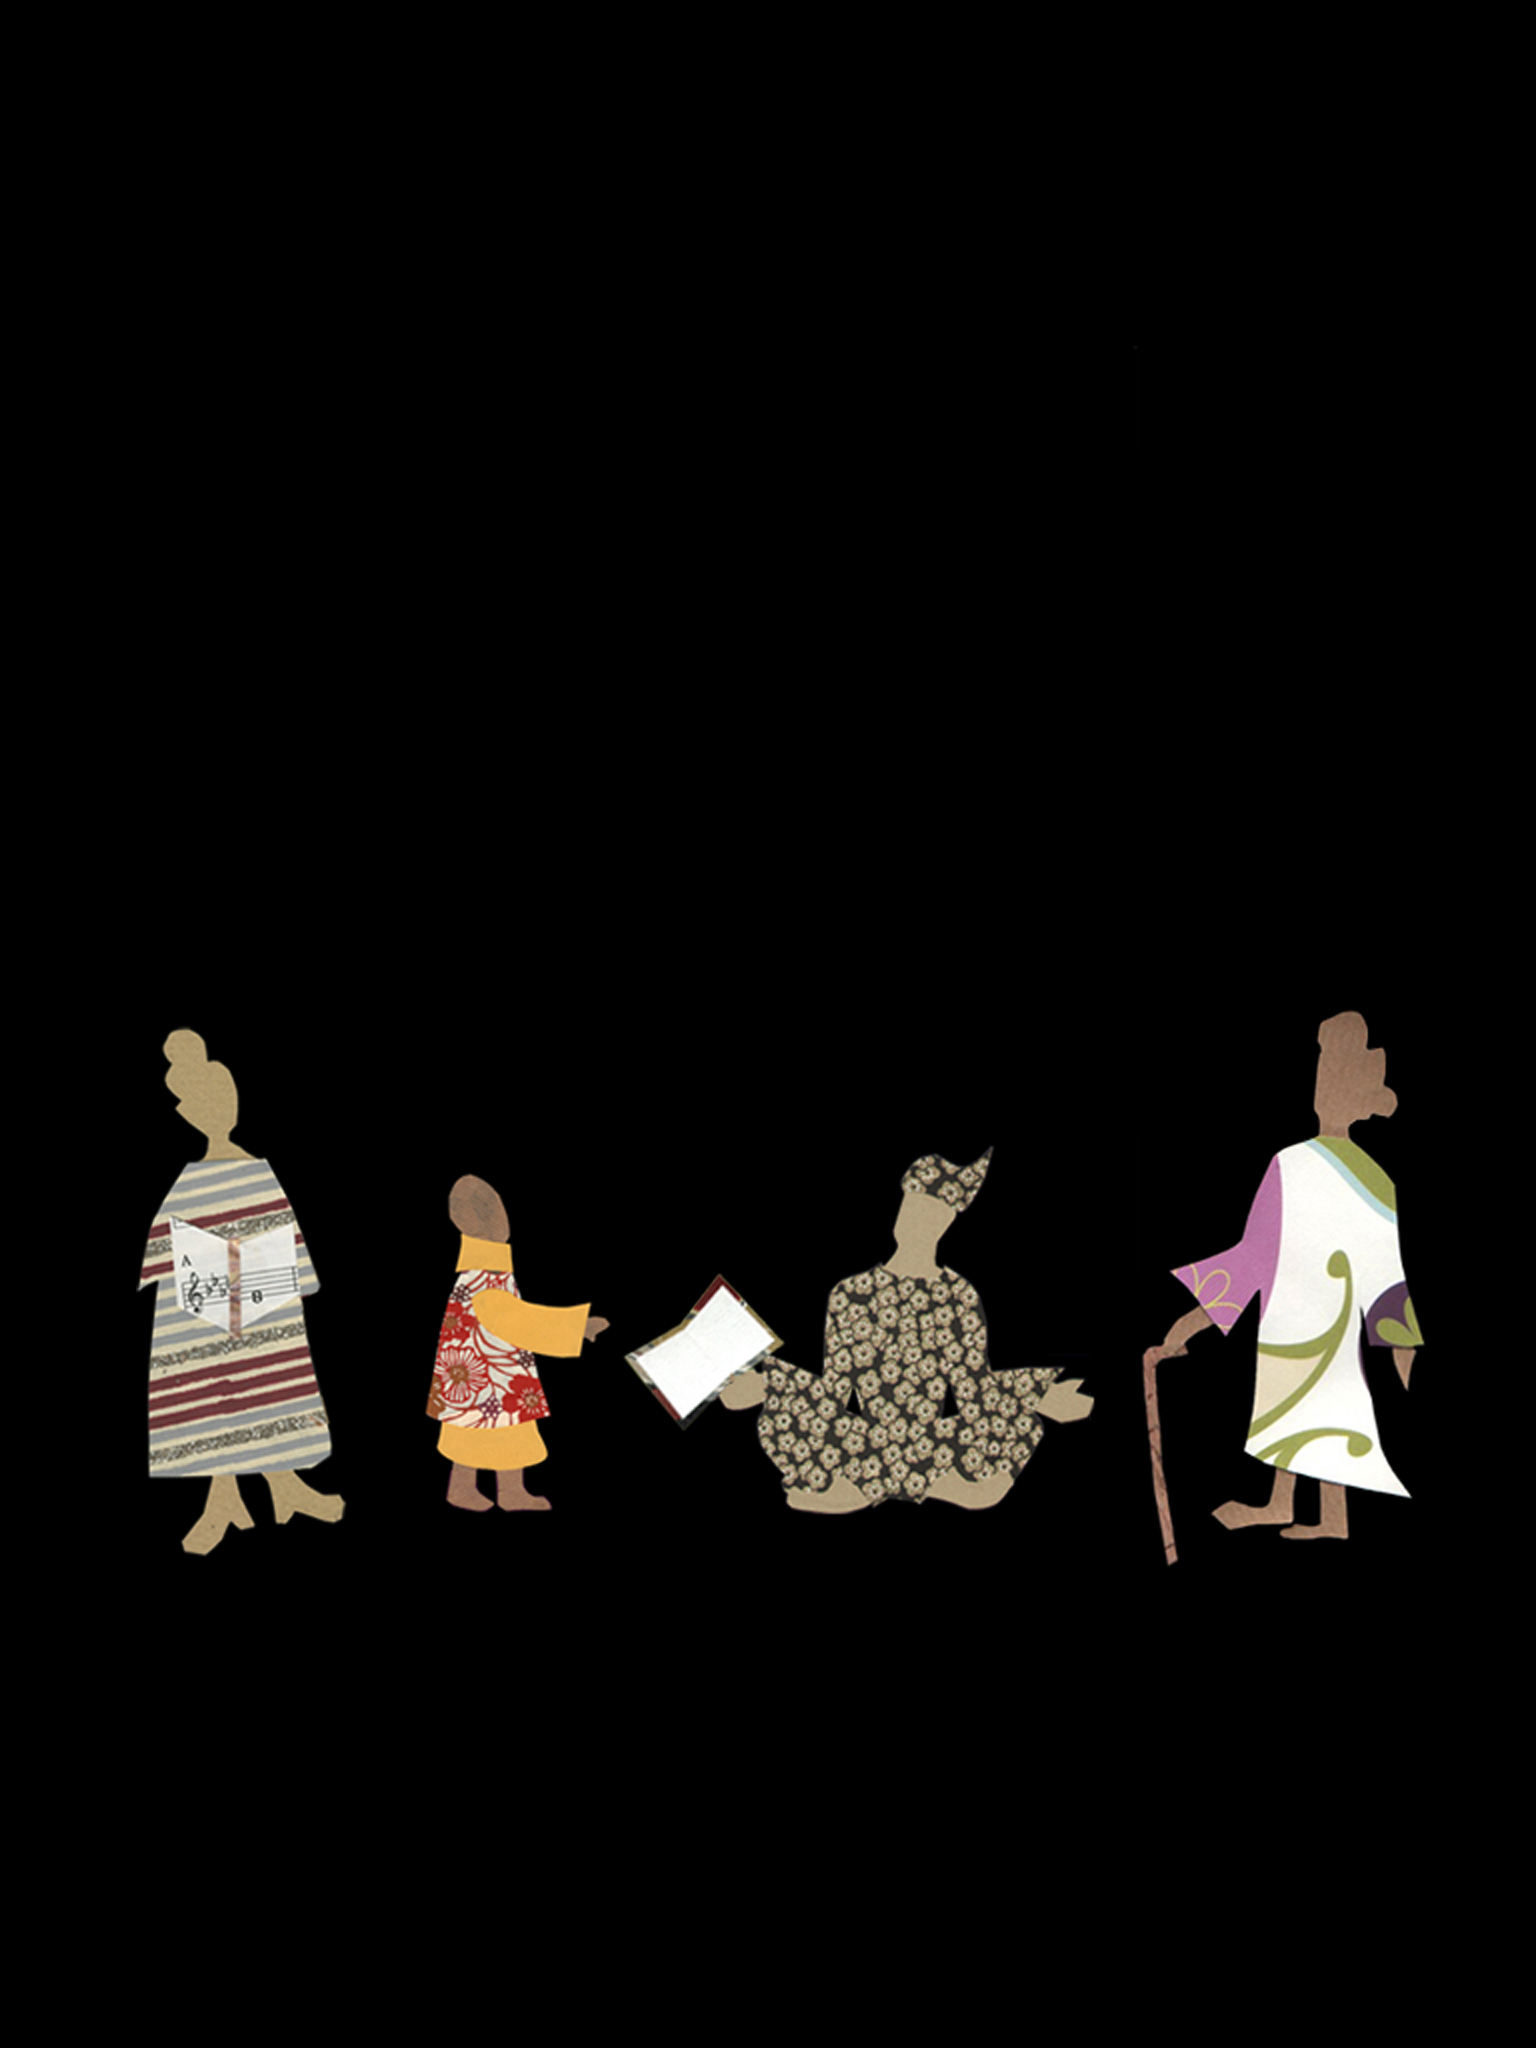
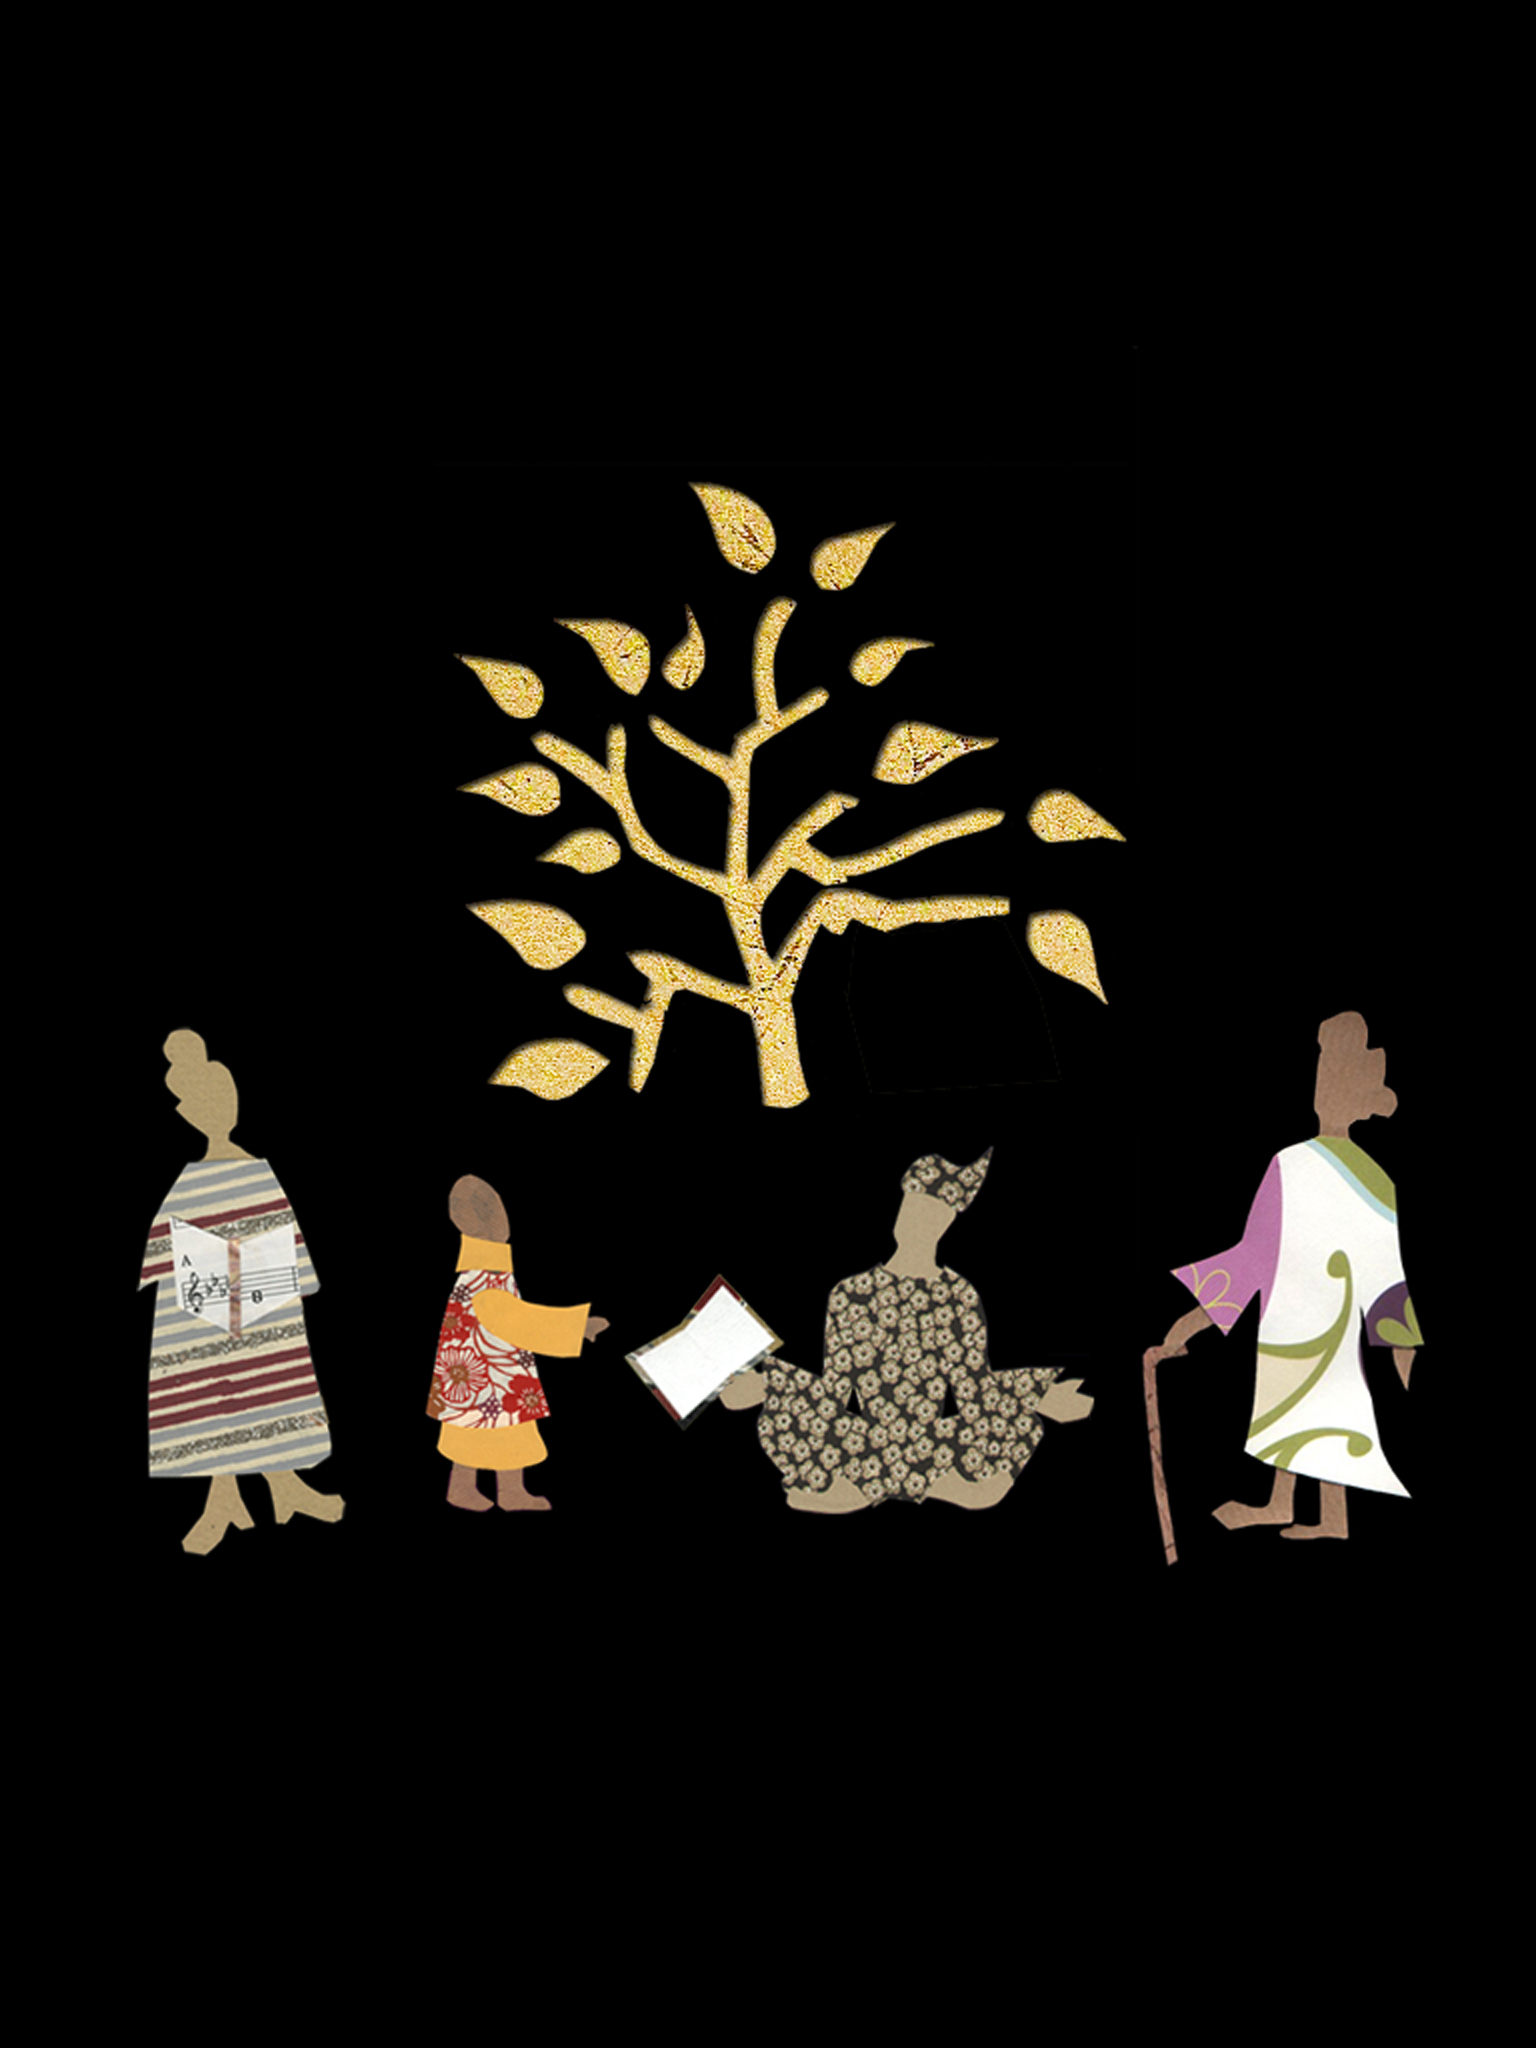
Jump directly when user select option Stories on Menu View

Changed region(s): [[0.2812, 0.2188, 0.7188, 0.5625]]

diff --git a/Bible/ResourceData/Page3HtmlFile/style3.css b/Bible/ResourceData/Page3HtmlFile/style3.css
@@ -282,43 +282,47 @@ font-weight: bold;
 }
 							/*FOR IMAGE GLOW EFFECT*/
 .treeImage{
-	background-image: url(Frem1.png);
+	background-image: url(frame_sprite.png);
 	background-repeat: no-repeat;
+	background-position: 1px 0;
 	height:314px;
 	width:337px;
 	position: relative;
 	left: 29.4%;
-	top: 23px;
+	top: 24px;
 	display: inline-block;
 }
 .treeImage1{
-	background-image: url(Frem2.png);
+	background-image: url(frame_sprite.png);
 	background-repeat: no-repeat;
+	background-position: -356px 0;
 	height:314px;
 	width:337px;
 	position: relative;
 	left: 29.4%;
-	top: 23px;
+	top: 24px;
 	display: inline-block;
 }
 .treeImage2{
-	background-image: url(Frem3.png);
+	background-image: url(frame_sprite.png);
 	background-repeat: no-repeat;
+	background-position: -714px 0;
 	height:314px;
 	width:337px;
 	position: relative;
 	left: 29.4%;
-	top: 23px;
+	top: 24px;
 	display: inline-block;
 }
 .treeImage3{
-	background-image: url(Frem4.png);
+	background-image: url(frame_sprite.png);
 	background-repeat: no-repeat;
+	background-position: -1071px 0;
 	height:314px;
 	width:337px;
 	position: relative;
 	left: 29.4%;
-	top: 23px;
+	top: 24px;
 	display: inline-block;
 }
 										/*END GLOW EFFECT*/

diff --git a/Bible/ResourceData/Page3HtmlFile/Page_003.htm b/Bible/ResourceData/Page3HtmlFile/Page_003.htm
@@ -32,7 +32,7 @@ $(function(){
 </body>
 <script type="text/javascript">
 			var classes = ['treeImage','treeImage1','treeImage2','treeImage3']
-			var timeDiff = 1*1000;
+			var timeDiff = 0.625*1000;
 			var currentMove = 0;
 			var lastMove = classes.length-1;
 			var counter = 0;

diff --git a/Bible/ShareViewController.m b/Bible/ShareViewController.m
@@ -126,10 +126,10 @@ nil
     [FBShareManager sharedManager].m_getPostOption = FB_PostProfileWall;
     [FBShareManager sharedManager].m_titleName  = @"";
     [FBShareManager sharedManager].m_caption = @"";
-    [FBShareManager sharedManager].m_description = SocialNetworkMessage;
+    [FBShareManager sharedManager].m_description = FaceBookMsg;
     [FBShareManager sharedManager].m_iconUrl = @"";
     [FBShareManager sharedManager].m_linkUrl = @"";
-    [FBShareManager sharedManager].m_msg =     SocialNetworkMessage;
+    [FBShareManager sharedManager].m_msg =     FaceBookMsg;
     
     [[FBShareManager sharedManager]  publishStream];
 }
@@ -193,16 +193,12 @@ nil
 - (void)facebookLikeViewDidUnlike:(FacebookLikeView *)aFacebookLikeView
 {
     
-    
     UIAlertView *alert = [[[UIAlertView alloc] initWithTitle:@"Unliked"
                                                      message:KFaceBookUnLikeMsgKey
                                                     delegate:self
                                            cancelButtonTitle:@"OK"
                                            otherButtonTitles:nil] autorelease];
     [alert show];
-    
-    
-    
     
 }
 
@@ -225,7 +221,7 @@ nil
 }
 -(void)postTweetButton:(id)sender{
     m_twtManger.requestType = TweetOnTwitter;
-    [m_twtManger tweetWithMsg:SocialNetworkMessage];
+    [m_twtManger tweetWithMsg:TwitterShareMsg];
 }
 
 
@@ -316,9 +312,10 @@ nil
         
         MFMailComposeViewController* controller = [[MFMailComposeViewController alloc] init];
         controller.mailComposeDelegate = self;
-        [controller setSubject:@"Test mail"];
-        [controller setMessageBody:@"Hi Ashi, \n\n Are u there ?" isHTML:NO];
-        if (controller) [self presentModalViewController:controller animated:YES];
+        [controller setSubject:@"History of a Bible, illustrated by Benjamin Morse"];
+        [controller setMessageBody:EmailShareMsg isHTML:NO];
+        if (controller)
+        [self presentModalViewController:controller animated:YES];
         [controller release];
         
     } else {
@@ -333,9 +330,9 @@ nil
     if([SLComposeViewController isAvailableForServiceType:SLServiceTypeFacebook])
     {
         mySLComposerSheet = [SLComposeViewController composeViewControllerForServiceType:SLServiceTypeFacebook];
-        [mySLComposerSheet setInitialText:SocialNetworkMessage];
-        [mySLComposerSheet addImage:[UIImage imageNamed:@"image_1.png"]];
-        [mySLComposerSheet addURL:[NSURL URLWithString:@""]];
+        [mySLComposerSheet setInitialText:FaceBookMsg];
+        [mySLComposerSheet addImage:[UIImage imageNamed:@"Icon-72.png"]];
+        [mySLComposerSheet addURL:[NSURL URLWithString:@"www.biblebeautiful.com"]];
         [self presentViewController:mySLComposerSheet animated:YES completion:nil];
         
         [mySLComposerSheet setCompletionHandler:^(SLComposeViewControllerResult result) {
@@ -367,9 +364,9 @@ nil
     if([SLComposeViewController isAvailableForServiceType:SLServiceTypeTwitter])
     {
         mySLComposerSheet = [SLComposeViewController composeViewControllerForServiceType:SLServiceTypeTwitter];
-        [mySLComposerSheet setInitialText:SocialNetworkMessage];
+        [mySLComposerSheet setInitialText:TwitterShareMsg];
         [mySLComposerSheet addImage:[UIImage imageNamed:@"image_1.png"]];
-        [mySLComposerSheet addURL:[NSURL URLWithString:@"nil"]];
+        [mySLComposerSheet addURL:[NSURL URLWithString:@"http://orsonandco.com/"]];
         [self presentViewController:mySLComposerSheet animated:YES completion:nil];
         
         [mySLComposerSheet setCompletionHandler:^(SLComposeViewControllerResult result) {

diff --git a/Bible/mainViewClasses/RootViewController.m b/Bible/mainViewClasses/RootViewController.m
@@ -388,7 +388,7 @@
                 NSInteger    currentPageId = [BibleSingletonManager sharedManager].currentPageId;
                 [currentViewController hieghtTextWhenSwipeUpperCorner:currentPageId+1];
              }
-         [self performSelector:@selector(tapPageAnimationIsComplete) withObject:nil afterDelay:.1];
+         [self performSelector:@selector(tapPageAnimationIsComplete) withObject:nil afterDelay:.2];
         }
     }];
 }
@@ -404,7 +404,7 @@
                 //NSLog(@"currentPosition  %d",currentPosition);
                 [self setMenuSliderViewHidden:YES];
             }
-            [self performSelector:@selector(tapPageAnimationIsComplete) withObject:nil afterDelay:.1];
+            [self performSelector:@selector(tapPageAnimationIsComplete) withObject:nil afterDelay:.2];
         }
     }];
 }
@@ -449,5 +449,59 @@
     self.pageAnimationFinished = isFlip;
     isItTouchInMenuView = YES;
 }
+
+-(void)reLoadAllFiveViewDataWhenYouComeFromMenuOption:(NSString *)htmlNameStr{
+    
+    NSLog(@"htmlNameStr%@",htmlNameStr);
+    NSString *pageNumberStr = [[htmlNameStr componentsSeparatedByString:@"Page_0"] lastObject];
+    pageNumberStr = [[pageNumberStr componentsSeparatedByString:@"."] objectAtIndex:0];
+   
+    NSLog(@"htmlNameStr%@, Page Number is:- %d",htmlNameStr,[pageNumberStr integerValue]);
+    /*
+    NSArray   *objectArr = [[BibleSingletonManager sharedManager].preLoadViewArr copy];
+    [[BibleSingletonManager sharedManager].preLoadViewArr removeAllObjects];
+    
+    PageViewController   *pageViewController;
+    
+    for (int i = 0; i<[objectArr count]; i++) {
+        
+        pageViewController = [objectArr objectAtIndex:i];
+        
+        switch (pageViewController.view.tag) {
+                
+            case ExtremLeftView:
+                [pageViewController loadHtml:htmlNameStr];
+                [pageViewController.dataLabel setText:[NSString stringWithFormat:@"%d",[pageNumberStr integerValue]]];
+                [[BibleSingletonManager sharedManager].preLoadViewArr addObject:pageViewController];
+                break;
+            case LeftView:
+               [pageViewController loadHtml:htmlNameStr];
+                [[BibleSingletonManager sharedManager].preLoadViewArr addObject:pageViewController];
+                break;
+                
+            case CurrentView:
+                 [pageViewController loadHtml:htmlNameStr];
+                [[BibleSingletonManager sharedManager].preLoadViewArr addObject:pageViewController];
+                break;
+            case RightView:
+                [pageViewController loadHtml:htmlNameStr];
+                [[BibleSingletonManager sharedManager].preLoadViewArr addObject:pageViewController];
+                [BibleSingletonManager sharedManager].pageViewController = (id)pageViewController;
+                break;
+                
+            case ExtremRightView:
+                pageViewController.view.tag = RightView;
+                [[BibleSingletonManager sharedManager].preLoadViewArr addObject:pageViewController];
+                break;
+                
+            default:
+                break;
+        }
+        
+    }
+    
+    [objectArr release]; */
+}
+
 
 @end

diff --git a/Bible/UtilityClasses/BilbleConstant.h b/Bible/UtilityClasses/BilbleConstant.h
@@ -69,7 +69,11 @@ typedef enum{
  ExtremRightView,
 }PreLoadView;
 
-#define SocialNetworkMessage  @"I am loving The Oldest Bedtime Story Ever by Benjamin Morse.  To learn more visit www.biblebeautiful.com. Published by @OrsonCo."
+#define FaceBookMsg  @"I am reading The Bible Beautiful: The Oldest Bedtime Story Ever, written and illustrated by Benjamin Morse.  It is available in hardback and as an eLuminated app.  To learn more or to buy it, visit www.biblebeautiful.com \n  Developed by: Orson & Co \n via The Oldest Bedtime Story Ever "
+
+#define TwitterShareMsg  @"I am loving The Oldest Bedtime Story Ever by Benjamin Morse.  To learn more visit www.biblebeautiful.com."
+
+#define EmailShareMsg @"I am reading The Bible Beautiful: The Oldest Bedtime Story Ever, written and illustrated by Benjamin Morse.  It is available in hardback and as an eLuminated app.  To learn more or to buy it, visit www.biblebeautiful.com."
 
 #define KFaceBookLikeMsgKey                     @"You liked Yardsellr. Thanks!"
 

diff --git a/Bible/Stories/StoriesViewController.m b/Bible/Stories/StoriesViewController.m
@@ -127,7 +127,13 @@
 }
 -(void)openSelectedPage:(NSString *)selectedPageHtmlNameStr{
     
-    StoriesPageViewController    *pageViewController = [[StoriesPageViewController alloc] init ];
+    [[BibleSingletonManager sharedManager]._rootViewController reLoadAllFiveViewDataWhenYouComeFromMenuOption:selectedPageHtmlNameStr];
+    
+    [self dismissViewControllerAnimated:YES completion:^{
+        NSLog(@"Go back On last Page");
+    }];
+    
+   /* StoriesPageViewController    *pageViewController = [[StoriesPageViewController alloc] init ];
     [pageViewController  loadHtml:selectedPageHtmlNameStr];
     
     pageViewController.modalTransitionStyle = UIModalTransitionStyleFlipHorizontal;
@@ -135,7 +141,7 @@
         NSLog(@"Now Show commanPageViewController");
         
     }];
-    RELEASE(pageViewController);
+    RELEASE(pageViewController);*/
 }
 - (void)didReceiveMemoryWarning
 {

diff --git a/Bible/ShareViewController.h b/Bible/ShareViewController.h
@@ -27,7 +27,7 @@ TWSharedManagerDelegate,FBShareManagerDelegate,FacebookLikeViewDelegate>{
    SLComposeViewController    *mySLComposerSheet;
      TWSharedManager           *m_twtManger;
     FaceBooKGetAndPostOption   _faceBooKGetAndPostOption;
-      FacebookLikeView        *m_FBLikeView;
+    FacebookLikeView        *m_FBLikeView;
 }
 
 

diff --git a/Bible/mainViewClasses/RootViewController.h b/Bible/mainViewClasses/RootViewController.h
@@ -23,4 +23,6 @@
 @property (strong, nonatomic) UIPageViewController *pageViewController;
 -(void)setMenuSliderViewHidden:(BOOL) isHidden;
 -(void)nextPageFlipAutomaticallyWhenAudioFinsh:(NSArray *)viewControllersArr;
+-(void)reLoadAllFiveViewDataWhenYouComeFromMenuOption:(NSString *)htmlNameStr;
+
 @end

diff --git a/Bible/ShareViewClasess/ShareViewCommanClass.h b/Bible/ShareViewClasess/ShareViewCommanClass.h
@@ -1,0 +1,13 @@
+//
+//  ShareViewCommanClass.h
+//  Bible
+//
+//  Created by Ashish Awasthi on 5/21/13.
+//  Copyright (c) 2013 Ashish Awasthi. All rights reserved.
+//
+
+#import <Foundation/Foundation.h>
+
+@interface ShareViewCommanClass : NSObject
+
+@end

diff --git a/Bible/ShareViewClasess/ShareViewCommanClass.m b/Bible/ShareViewClasess/ShareViewCommanClass.m
@@ -1,0 +1,13 @@
+//
+//  ShareViewCommanClass.m
+//  Bible
+//
+//  Created by Ashish Awasthi on 5/21/13.
+//  Copyright (c) 2013 Ashish Awasthi. All rights reserved.
+//
+
+#import "ShareViewCommanClass.h"
+
+@implementation ShareViewCommanClass
+
+@end
